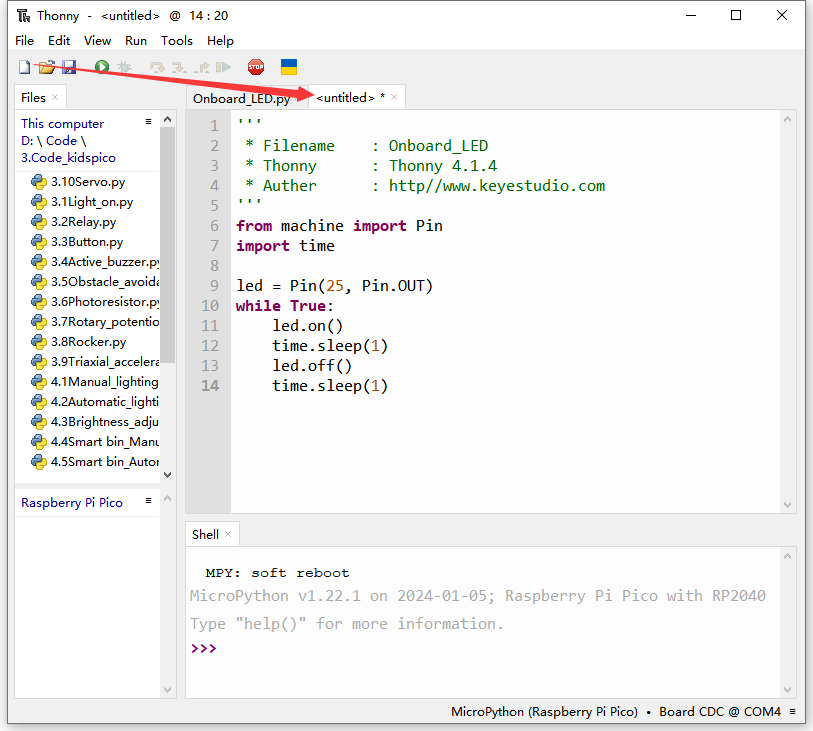
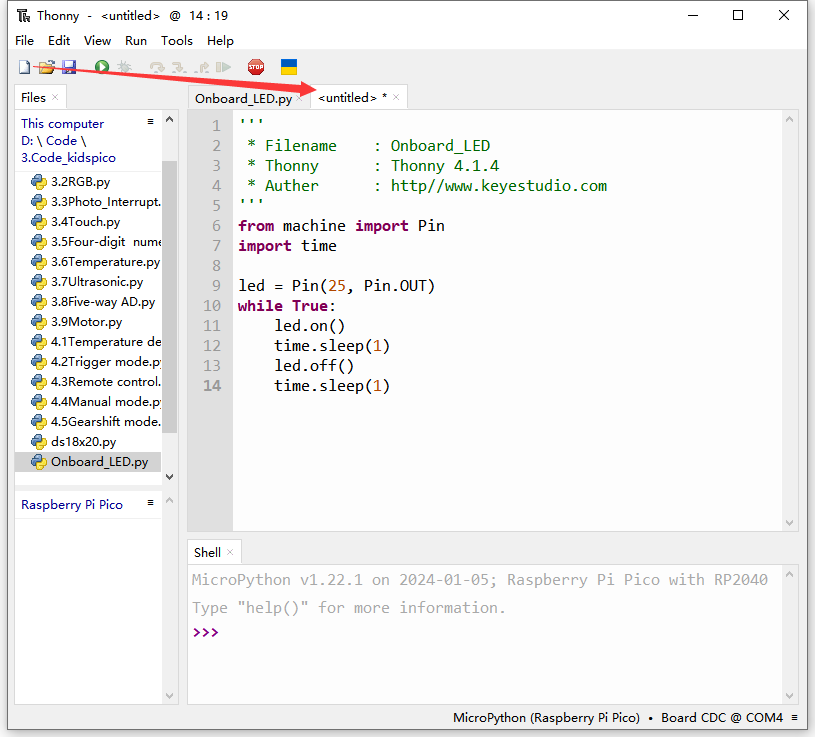
2024-10-10 13:30:01.54

diff --git a/docs/3.kidspico/Smart Fan_kidspico.md b/docs/3.kidspico/Smart Fan_kidspico.md
@@ -183,7 +183,7 @@ Enter **Disk D** and open folder **Code**, find **3.Code_kidspico** and you will
 
 ![1507](media/1507.png) ![1508](media/1508.png) ![1509](media/1509.png)
 
-Connect to kidspico and choose COM port. 
+Connect to kidspico to the computer via USB cable and choose COM port. 
 
 ![1513](media/1513.png)
 
@@ -205,7 +205,7 @@ Press "Enter" and the Shell prints **hello world**.
 
 #### Test Online Running
 
-Click to open code **Onboard_LED.py**.
+Double-click to open **Onboard_LED.py** in the Files area.
 
 ![1503](media/1503.png)
 
@@ -213,13 +213,45 @@ Click ![1407](media/1407.png) to run the code, and the yellow LED on kidspico bo
 
 ![1504](media/1504.gif)
 
+Click ![1413](media/1413.png) or press Ctrl+C to exit online running.
+
 ---
 
 #### Test Offline Running
 
-Open **Onboard_LED.py** in Files: File --> Save as... 
+**Method ①**: Offline run an already written program
 
-Click ![1404](media/1404.png) to create a new script, copy and paste Onboard_LED.py in it.
+Ensure the software is not "online". Click ![1413](media/1413.png) or press Ctrl+C to exit online running.
+
+Open file **Onboard_LED.py** and click File --> Save as...
+
+![1514](media/1514.png)
+
+Choose Raspberry Pi Pico.
+
+![1515](media/1515.png)
+
+We name it as <span style="color: rgb(10, 10, 200);">**main.py**</span> (The name must be main.py, otherwise the code will fail to execute).
+
+![1511](media/1511.png)
+
+Unplug the USB cable connecting kidspico and computer. 
+
+The main.py code will automatically execute as long as the kidspico board is powered on. You will see the yellow LED flashes per second. 
+
+![1516](media/1516.png)
+
+![line4](media/line4.png)
+
+**Method ②**: Offline run a new program.
+
+Connect the kidspico to the computer via USB cable.
+
+![1517](media/1517.png)
+
+Double-click to open **Onboard_LED.py** in the Files area.
+
+Copy and paste **Onboard_LED.py** on <untitled\> (Click ![1404](media/1404.png) to create an <untitled\> if there is not).
 
 ![1505](media/1505.png)
 
@@ -227,7 +259,7 @@ Click ![1406](media/1406.png) to save it to Raspberry Pi Pico.
 
 ![1510](media/1510.png)
 
-We name it as **main.py**.
+We name it as <span style="color: rgb(10, 10, 200);">**main.py**</span> (The name must be main.py, otherwise the code will fail to execute).
 
 ![1511](media/1511.png)
 

diff --git a/docs/index.md b/docs/index.md
@@ -16,7 +16,13 @@ In this kit, multiple sensors and modules are included: white LED module, RGB LE
 
 ## Kit List
 
-<span style="color: rgb(2550, 10, 50);">**The main boards are not included in this kit!**</span>
+<span style="color: rgb(2550, 10, 50);">**KD3023: Mainboards are NOT included in this kit.**</span>
+
+<span style="color: rgb(2550, 10, 50);">**KD3023-U kit includes kidsuno board.**</span>
+
+<span style="color: rgb(2550, 10, 50);">**KD3023-E kit includes kidsIOT board.**</span>
+
+<span style="color: rgb(2550, 10, 50);">**KD3023-P kit includes kidspico board.**</span>
 
 |  #   |              NAME              |                     PIC                     | QTY  |
 | :--: | :----------------------------: | :-----------------------------------------: | :--: |
@@ -51,8 +57,6 @@ In this kit, multiple sensors and modules are included: white LED module, RGB LE
 ---
 
 ## Main Boards
-
-<span style="color: rgb(2550, 10, 50);">**The main boards are not included in this kit!**</span>
 
 <span style="color: rgb(2550, 10, 50);">**Before experiments, please have a good grasp of main boards:**</span>
 
